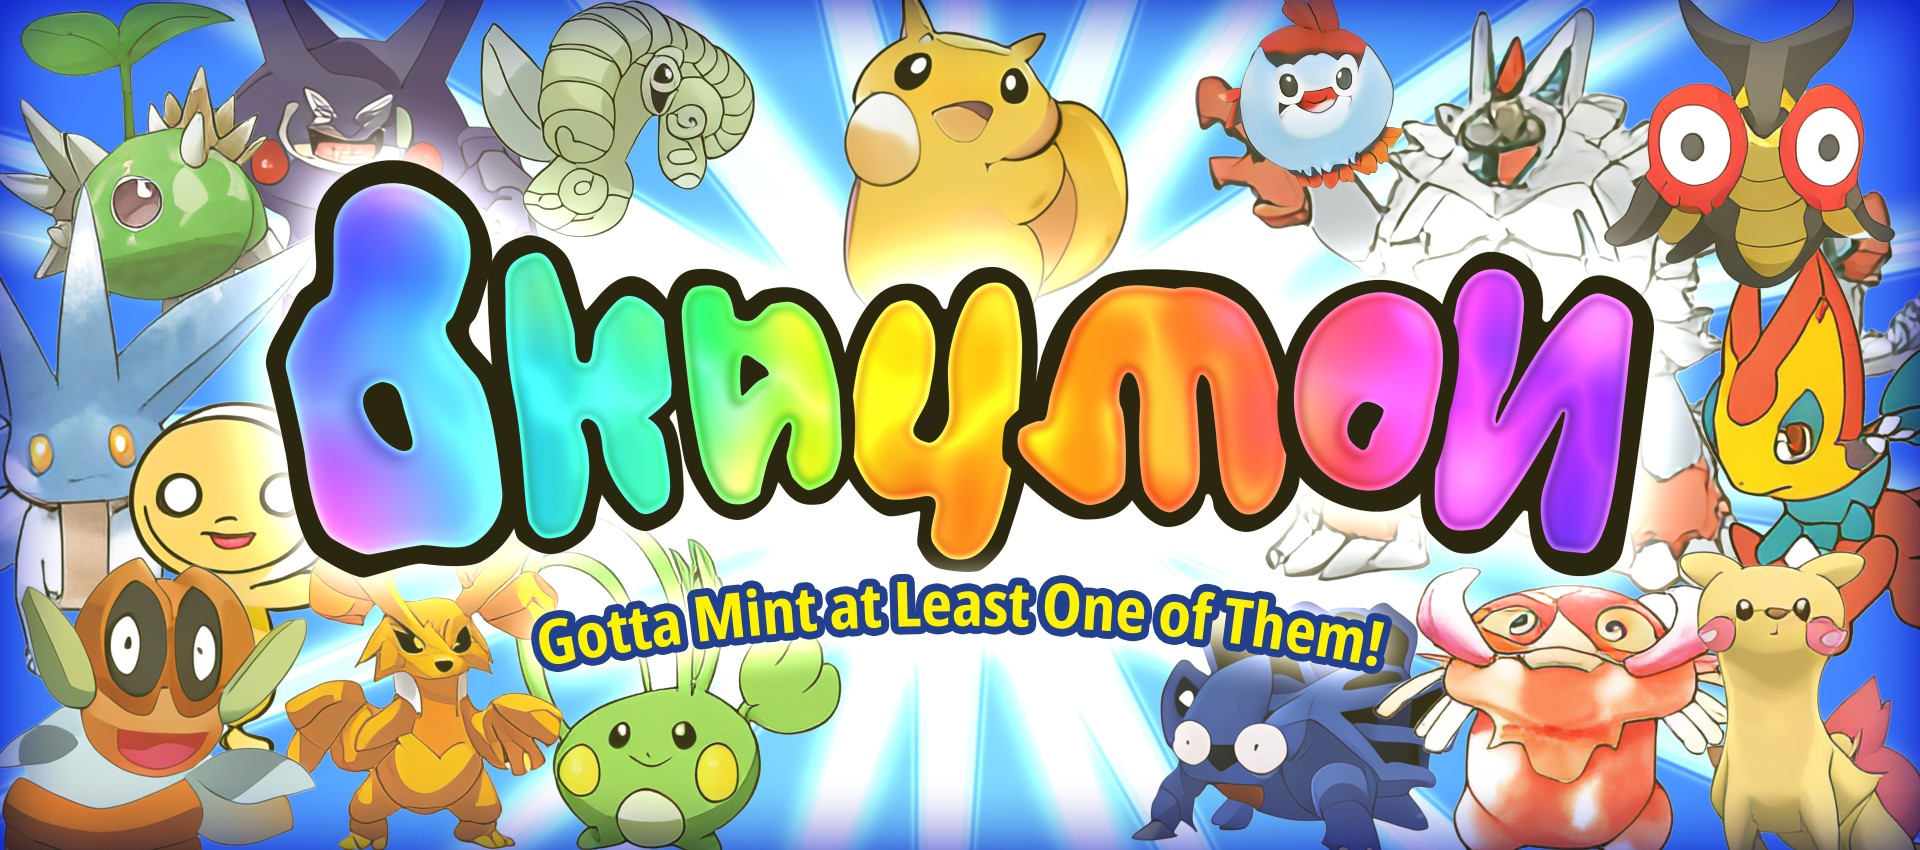
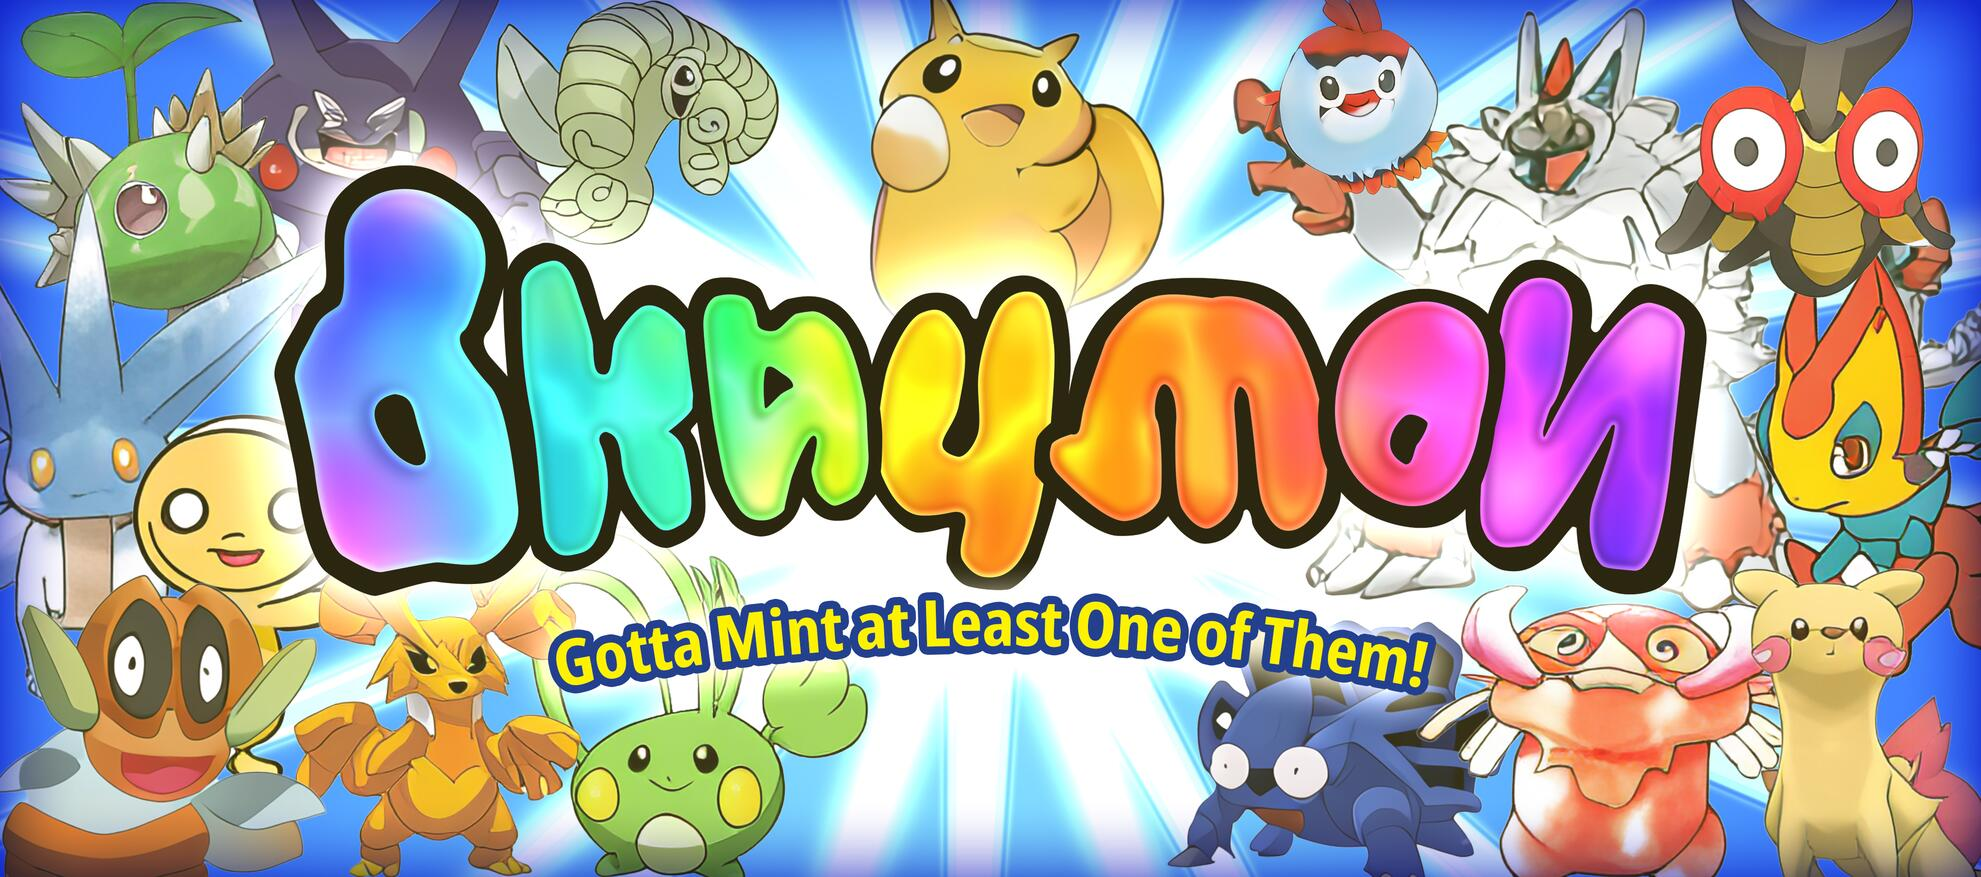
hyphen formatting and image compression

Changed region(s): [[0.2812, 0.6729, 0.7188, 0.7953], [0.6875, 0.1835, 0.7188, 0.2141]]

diff --git a/Landing Page/index.html b/Landing Page/index.html
@@ -54,14 +54,14 @@
                             </div>
                         </div> -->
 <!--end of marquee--> 
-                        <div style="background: white; width: 101%; max-height: 256px; border: 1px solid black;justify-items: center;">
-                            <img style="min-width: 250px; max-width:100%; max-height: 254px;" src="./static/media/Starters.png"/>
+                        <div style="background: white; width: 101%; max-height: 256px; border: 1px solid black;">
+                            <img style="min-width: 250px; max-width:100%; max-height: 254px;" src="./static/media/Starters_web.jpg"/>
                         </div>
                         <p>Strange creatures appear, familiar like memories, their names and natures on the tip of everyone's tongue.
                             <span class="bold-red">Professor Okay</span> is convinced these creatures, which he calls <span class="bold-red">Okaymon</span>, hold the answers to the mysteries of the <span class="bold-red">Okayverse</span>.
                         </p>
                         <p>
-                            <img style="min-width: 250px; width: 60%;" src="./static/media/okayyako4_web.jpg" alt="Barry Okay and Koko Yako after recieving their Okayball research grant" />
+                            <img style="min-width: 200px; width: 60%;" src="./static/media/okayyako4_web.jpg" alt="Barry Okay and Koko Yako after recieving their Okayball research grant" />
                         </p>
                             <figcaption><i>Professor Okay (left) and Dr. Yako in the lab.</i></figcaption>
                         <p>
@@ -96,14 +96,14 @@
                         <p><i>Learn more about our gamified drop by reading <a class="btn-img" href="./static/media/Players manual_web.pdf" target="_blank" rel="noopener noreferrer">The Official Okaymon Player's Guide</a></i></p>
                         <p>
                             <a class="btn-img" href="./static/media/Players manual_web.pdf" target="_blank" rel="noopener noreferrer">
-                                <img style="min-width: 250px; width: 60%;" src="./static/media/Players manual_thumbnail_web.jpg" alt="Okaymon Player's Guide" />
+                                <img style="min-width: 200px; width: 60%;" src="./static/media/Players manual_thumbnail_web.jpg" alt="Okaymon Player's Guide" />
                             </a>
                         </p>
                         <p>
                             In brief, the collection is released over <span class="bold-red">5 themed Generations of 2,000 Okaymon each.</span> The first Generation is <i>Oasis</i>.
                         </p>
                         <p>
-                            <img style="min-width: 250px; width: 60%;" src="./static/media/Oasis Booster Ad_small_web.jpg" alt="Generation 1: Oasis. 2000 unique monsters" />
+                            <img style="min-width: 200px; width: 60%;" src="./static/media/Oasis Booster Ad_small_web.jpg" alt="Generation 1: Oasis. 2000 unique monsters" />
                         </p>
                         <p>
                             You mint Okayballs for .05 ETH each.
@@ -130,18 +130,18 @@
                             None of our images are drawn or designed by people; <i>they're 100% machine dream!</i>
                         </p>
                         <p>
-                            <img style="min-width: 250px; width: 50%;" src="./static/media/starters_ganimation_256.webp" alt="The birth of an Okaymon" />
+                            <img style="min-width: 200px; width: 50%;" src="./static/media/starters_ganimation_256.webp" alt="The birth of an Okaymon" />
                         </p>
                         <p>For some non-technical introductions to the tools we used, check out these links:</p>
                         <p>
-                            <table class="table-contents" style="text-align: center; border: none;">
+                            <table class="table-contents" style="text-align: center; border:none;">
                                 <tr>
-                                    <td style="border-left: 1px solid;">
+                                    <td style="border-left: 1px solid; padding-bottom:20px;">
                                         <a href="https://www.freecodecamp.org/news/an-intuitive-introduction-to-generative-adversarial-networks-gans-7a2264a81394/" target="_blank" rel="noopener noreferrer">
                                         An Intuitive Introduction to GANs
                                         </a>
                                     </td>
-                                    <td style="border-left: 1px solid; border-right: 1px solid;">
+                                    <td style="border-left: 1px solid; border-right: 1px solid; padding-bottom:20px;">
                                         <a href="https://youtu.be/aircAruvnKk" target="_blank" rel="noopener noreferrer">
                                             Video: "But what is a neural network?"
                                         </a>
@@ -205,17 +205,17 @@
                                 <th><h2>2.0</h2></th>
                             </tr>
                             <tr>
+                                <td>• AI multimedia expansion of Okayverse lore</td>
+                            </tr>
+                            <tr>
+                                <td>• Okaymon DAO</td>
+                            </tr>                     
+                            <tr>
                                 <td>• Okaymon Breeding</td>
                             </tr>
                             <tr>
                                 <td>• Okaymon Digital Card Game</td>
-                            </tr>
-                            <tr>
-                                <td>• Okaymon DAO</td>
-                            </tr>
-                            <tr>
-                                <td>• AI multimedia expansion of the Okayverse lore</td>
-                            </tr>                                                                       
+                            </tr>                                                  
                         </table>
                     </p>
                     </div>
@@ -228,55 +228,55 @@
                     <div class="section-body">
                         <h1>Who are we?</h1>
                         <p>
-                            <img style="min-width: 256px; width: 60%;" src="./static/media/team_portrait_for_NFT_news_2_web.jpg" alt="The Okaymon Team" />
+                            <img style="min-width: 200px; width: 60%;" src="./static/media/team_portrait_for_NFT_news_2_web.jpg" alt="The Okaymon Team" />
                         </p>
                         <div class="bios_layout">
                             <div class="float_pfp">
                                 <a class="btn-img" href="https://twitter.com/iamganthony" target="_blank" rel="noopener noreferrer">
-                                    <img src="./static/media/ganthony_bordered.png" alt="Anthony profile picture" />
+                                    <img src="./static/media/ganthony_bordered_web.png" alt="Anthony profile picture" />
                                 </a>
                             </div>
-                            <span class="bold-red">Anthony</span> is an AI artist and electronic musician.
-                                He's a certified Pokemaniac, and was a competitive-tier battler in the Pokemon Video Game Championships 2011-2018.
+                            <span class="bold-red">Anthony</span> is an AI artist and elec&shy;tronic music&shy;ian.
+                                He's a certi&shy;fied Poke&shy;maniac, and was a competitive-&shy;tier battler in the Poke&shy;mon Video Game Champion&shy;ships 2011-2018.
                                 He studied computer science and digital art.
-                                When he's not preoccupied training The Okay Computer to generate the Okaymon you know and love, he makes wedding cakes for fun.
+                                When he's not pre&shy;occupied train&shy;ing The Okay Comp&shy;uter to gen&shy;erate the Okay&shy;mon you know and love, he makes wedding cakes for fun.
                         </div>
                         <div class="bios_layout">
                             <div class="float_pfp">
                                 <a class="btn-img" href="https://twitter.com/NfTooth" target="_blank" rel="noopener noreferrer">
-                                    <img src="./static/media/NFTooth_bordered.png" alt="Arturo profile picture" />
+                                    <img src="./static/media/NFTooth_bordered_web.png" alt="Arturo profile picture" />
                                 </a>
                             </div>
-                                <span class="bold-red">Arturo</span> is an artist, actor, director, and filmmaker from Rome, Italy.
-                                He travelled across Europe as tour manager and director of his own theater company, collaborated with many prominent artists, and performed under controversial director Romeo Castellucci.
-                                After coming to the US, he has directed music videos and plays in Portland, OR and worked for years as artist-in-residence at an art school. He was Artistic Director for a 3D sound installation at Google Play's Annual Developer Conference in 2017.
+                                <span class="bold-red">Arturo</span> is an artist, actor, direc&shy;tor, and film&shy;maker from Rome, Italy.
+                                He travel&shy;led across Europe as tour manager and director of his own theater company, collab&shy;orated with many prom&shy;inent artists, and per&shy;formed under contro&shy;versial director Romeo Castel&shy;lucci.
+                                After coming to the US, he has directed music videos and plays in Port&shy;land, OR and worked for years as artist-&shy;in-&shy;residence at an art school. He was Artistic Director for a 3D sound instal&shy;lation at Google Play's Annual Developer Conference in 2017.
                         </div>
                         <div class="bios_layout">
                             <div class="float_pfp">
                                 <a class="btn-img" href="https://twitter.com/NFTchee" target="_blank" rel="noopener noreferrer">
-                                    <img src="./static/media/NFTietzsche2_bordered.png" alt="Nathan profile picture" />
+                                    <img src="./static/media/NFTietzsche2_bordered_web.png" alt="Nathan profile picture" />
                                 </a>
                             </div>
-                                <span class="bold-red">Nathan</span> is a mathematician, filmmaker, and writer.
-                                He studied for years with novelist Chuck Palahniuk in a highly competitive writing workshop, and edited books for Unsolicited Press.
+                                <span class="bold-red">Nathan</span> is a mathe&shy;matician, film&shy;maker, and writer.
+                                He studied for years with novelist Chuck Palah&shy;niuk in a highly compet&shy;itive writing work&shy;shop, and edited books for Un&shy;solicited Press.
                                 He and Arturo have made several short films.
-                                Nathan taught math before working full-time on Okaymon.
+                                Nathan taught math before working full-&shy;time on Okay&shy;mon.
                         </div>
                         <div class="bios_layout">
                             <div class="float_pfp">
                                 <a class="btn-img" href="https://twitter.com/tartz_nft" target="_blank" rel="noopener noreferrer">
-                                    <img src="./static/media/tartz_bordered.png" alt="Tartz profile picture"/>
+                                    <img src="./static/media/tartz_bordered_web.png" alt="Tartz profile picture"/>
                                 </a>
                             </div>
-                                <span class="bold-red">Tartz</span> began his journey into NFTs when he first heard about them on Gary Vee's podcast circa February 2021.
-                                His first ever NFT purchase was an NBA TopShot pack and he's been an early member of communities like BAYC, World of Women, Ghxsts and Ether Orcs.
-                                He has nearly 10 years of experience as a residency-trained optometrist specializing in management of ocular diseases and acute trauma.
-                                He has a passion for education and loves giving back to the College of Optometry as an adjunct clinical instructor.
+                                <span class="bold-red">Tartz</span> began his journey into NFTs when he first heard about them on Gary Vee's podcast circa Feb&shy;ruary 2021.
+                                His first ever NFT purchase was an NBA TopShot pack and he's been an early member of commun&shy;ities like BAYC, World of Women, Ghxsts and Ether Orcs.
+                                He has nearly 10 years of exper&shy;ience as a residency-&shy;trained opto&shy;metrist special&shy;izing in manage&shy;ment of ocular diseases and acute trauma.
+                                He has a passion for education and loves giving back to the College of Opto&shy;metry as an adjunct clinical instruc&shy;tor.
                         </div>
                         <div class="bios_layout">
                             <div class="float_pfp">
                                 <a target="_blank" rel="noopener noreferrer">
-                                    <img src="./static/media/TM_bordered.png" alt="TM profile picture"/>
+                                    <img src="./static/media/TM_bordered_web.png" alt="TM profile picture"/>
                                     </a>
                             </div>    
                                 <span class="bold-red">TM</span> is a designer and illustrator who never says no to a late night of karaoke or a weekend of board games.
@@ -285,11 +285,11 @@
                         <div class="bios_layout">
                             <div class="float_pfp">
                                 <a class="btn-img" href="https://dsstudios.tech/" target="_blank" rel="noopener noreferrer">
-                                    <img src="./static/media/DS-Studios_bordered.png" alt="DS Studios Logo" />
+                                    <img src="./static/media/DS-Studios_bordered_web.png" alt="DS Studios Logo" />
                                 </a>
                             </div>
                                 <span class="bold-red">DS Studios</span> offers expert services for any aspect of an NFT project.
-                                For Okaymon they wrote our innovative smart contracts, built the website, handled all Web2-Web3 integration, and provided marketing support.
+                                For Okay&shy;mon they wrote our inno&shy;vative smart con&shy;tracts, built the web&shy;site, handled all Web2-&shy;Web3 inte&shy;gration, and provided market&shy;ing support.
                                 These guys are awesome and The Okay Company is proud to call them a partner! Find out more at <a href="https://dsstudios.tech/" target="_blank" rel="noopener noreferrer">dsstudios.tech
                         </div>                                                                                                           
                     </div>

diff --git a/Landing Page/static/css/styles.css b/Landing Page/static/css/styles.css
@@ -233,21 +233,21 @@ main {
     border: 0px solid;
     border-top: 1px solid;
     font-family: opensans-condensed-regular;
-    font-size: 1.3em;
+    font-size: 1.2em;
     color: rgb(61, 59, 52);
     text-align:justify;
-    hyphens: auto;
+    hyphens: auto manual;
 }
 .float_pfp img{
     float:left;
     margin-right: 4px;
     margin-bottom: -4px; 
     max-width: 25%;
-    min-width: 128px;
+    min-width: 92px;
 }
 
 .table-contents {
-    min-width: 300px;
+    min-width: 250px;
     width: 85%;
     border: 0px solid;
     border-top: 1px solid;
